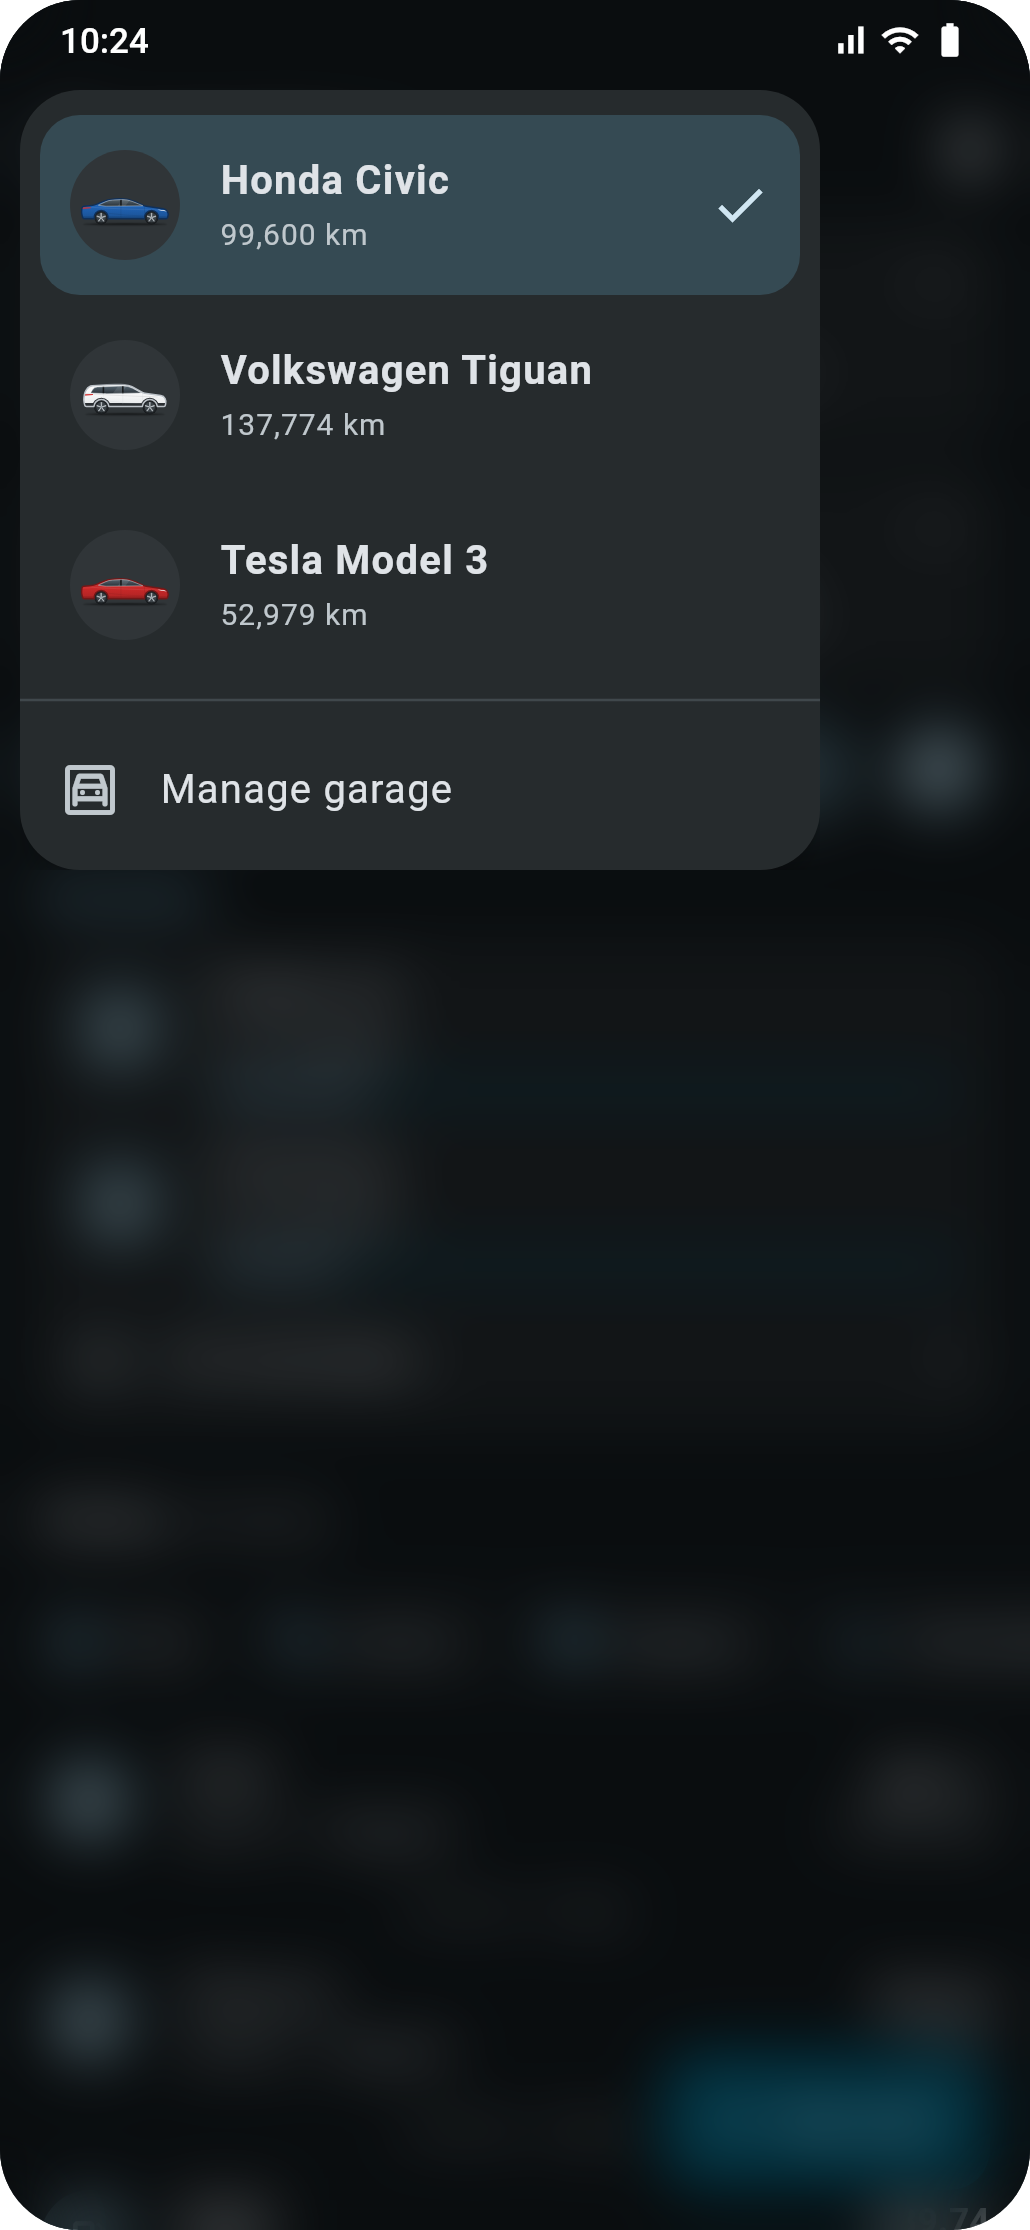
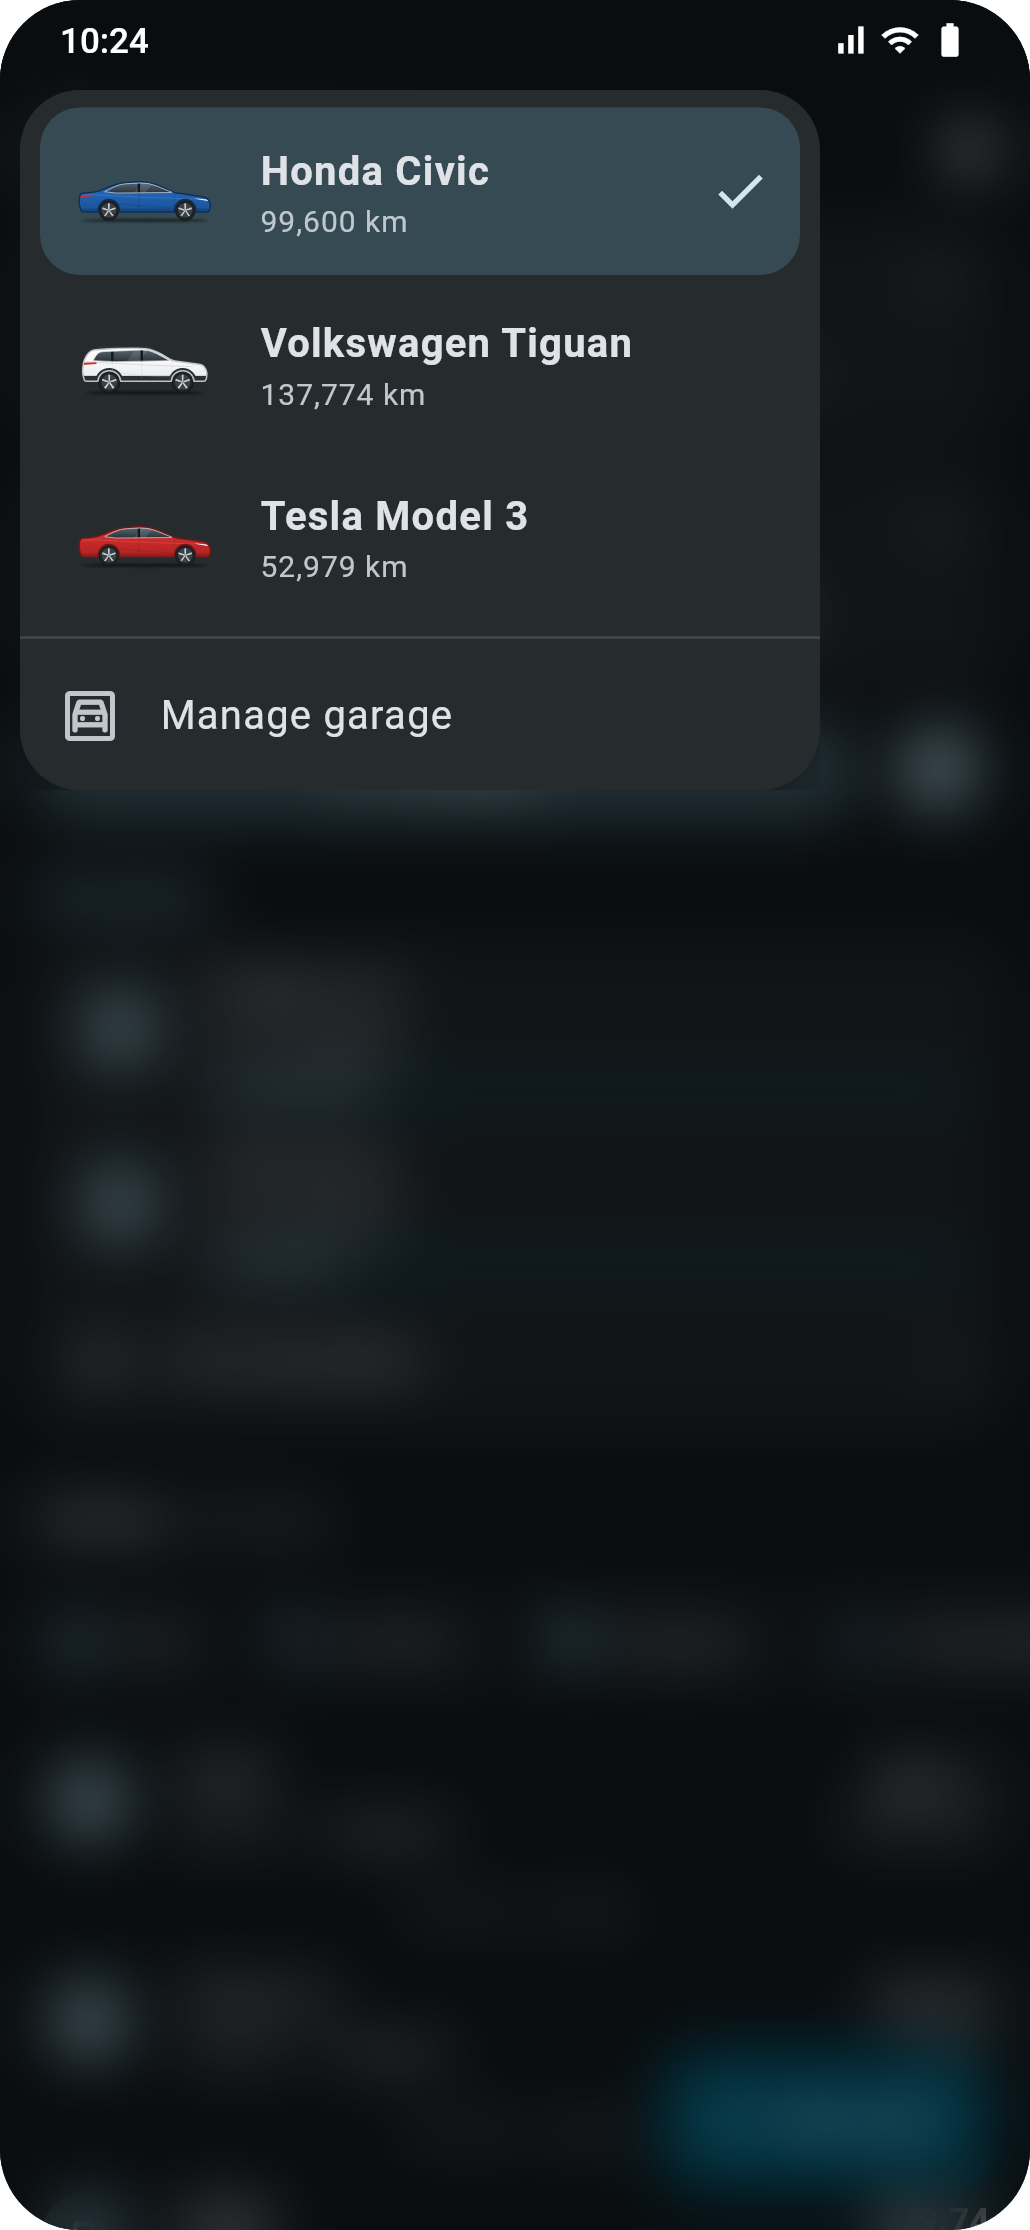
Vehicle menu: tighter rows, larger cars without circles; changelog 3.0.0
Rows are 5 px shorter with less padding around the list and divider, and
the cars are drawn 60 px wide without the avatar circle (VehicleAvatar
circle: false; the initial for a vehicle without a body type keeps its
circle). README screenshot updated.

Claude-Session: https://claude.ai/code/session_01F8422znuTrndrCgUezhEd8

diff --git a/lib/features/vehicles/presentation/vehicle_switcher.dart b/lib/features/vehicles/presentation/vehicle_switcher.dart
@@ -89,11 +89,15 @@ class _VehicleMenu extends ConsumerWidget {
   static const _maxBlur = 12.0;
   static const _dim = .35;
   static const _width = 320.0;
-  static const _listTop = 8.0;
+  static const _listTop = 6.0;
+  static const _carRadius = 30.0;
 
-  // A two-line tile is 72 high, its avatar centre 12 + 22 in from the row's left edge (8 margin).
-  static const _rowCenter = _listTop + 2 + 36;
-  static const _avatarCenter = 8 + 12 + 22.0;
+  /// Rows 5 px shorter than a standard tile (a density step is 4 px).
+  static const _density = VisualDensity(vertical: -1.25);
+
+  // A compact two-line tile is 67 high, its car centred 12 + _carRadius in from the row's left edge (8 margin).
+  static const _rowCenter = _listTop + 1 + 33.5;
+  static const _avatarCenter = 8 + 12 + _carRadius;
 
   @override
   Widget build(BuildContext context, WidgetRef ref) {
@@ -180,12 +184,13 @@ class _VehicleMenu extends ConsumerWidget {
                   const SizedBox(height: _listTop),
                   for (final v in ordered)
                     Padding(
-                      padding: const EdgeInsets.symmetric(horizontal: 8, vertical: 2),
+                      padding: const EdgeInsets.symmetric(horizontal: 8, vertical: 1),
                       child: ListTile(
                         tileColor: v.id == currentId ? cs.secondaryContainer : null,
                         contentPadding: const EdgeInsets.symmetric(horizontal: 12),
                         shape: RoundedRectangleBorder(borderRadius: BorderRadius.circular(16)),
-                        leading: VehicleAvatar(v, radius: 22),
+                        visualDensity: _density,
+                        leading: VehicleAvatar(v, radius: _carRadius, circle: false),
                         title: Text(
                           v.name,
                           maxLines: 1,
@@ -198,8 +203,9 @@ class _VehicleMenu extends ConsumerWidget {
                             v.id == currentId ? Navigator.pop(context) : onNavigate((c) => c.go(Routes.home(v.id))),
                       ),
                     ),
-                  const Divider(height: 16),
+                  const Divider(height: 12),
                   ListTile(
+                    visualDensity: _density,
                     leading: const Icon(Icons.garage_outlined),
                     title: Text(l10n.manageGarage),
                     onTap: () => onNavigate((c) => c.push(Routes.garage)),

diff --git a/lib/core/widgets/widgets.dart b/lib/core/widgets/widgets.dart
@@ -174,29 +174,40 @@ class ValueTile extends StatelessWidget {
 }
 
 class VehicleAvatar extends StatelessWidget {
-  const VehicleAvatar(this.vehicle, {super.key, this.radius = 18});
+  const VehicleAvatar(this.vehicle, {super.key, this.radius = 18, this.circle = true});
 
   final Vehicle vehicle;
   final double radius;
 
+  /// False draws the car alone across the whole width; the initial keeps its circle.
+  final bool circle;
+
   @override
-  Widget build(BuildContext context) =>
-      VehicleBadge(name: vehicle.name, color: vehicle.color, bodyType: vehicle.bodyType, radius: radius);
+  Widget build(BuildContext context) => VehicleBadge(
+      name: vehicle.name, color: vehicle.color, bodyType: vehicle.bodyType, radius: radius, circle: circle);
 }
 
 /// Round vehicle badge: a schematic car in the vehicle's colour, or the name's initial without a body type.
 class VehicleBadge extends StatelessWidget {
-  const VehicleBadge({super.key, required this.name, required this.color, this.bodyType, this.radius = 18});
+  const VehicleBadge(
+      {super.key, required this.name, required this.color, this.bodyType, this.radius = 18, this.circle = true});
 
   final String name;
   final int color;
   final BodyType? bodyType;
   final double radius;
+  final bool circle;
 
   @override
   Widget build(BuildContext context) {
     final theme = Theme.of(context);
     final body = bodyType;
+    if (body != null && !circle) {
+      return SizedBox.square(
+        dimension: radius * 2,
+        child: Center(child: CarDrawing(body: body, color: Color(color), width: radius * 2)),
+      );
+    }
     if (body != null) {
       final background = theme.colorScheme.surfaceContainerHighest;
       return CircleAvatar(

diff --git a/CHANGELOG.md b/CHANGELOG.md
@@ -4,11 +4,11 @@ Each section becomes the notes of the GitHub release with that version
 (`tool/changelog.sh <version>`; see docs/RELEASING.md). Newest first; rename *Unreleased* to the
 version when releasing.
 
-## Unreleased
+## 3.0.0
 
 - Phone vehicle selector: instead of a bottom sheet, a menu unfolds over the switcher with the current
   vehicle first, while the page behind blurs and dims. Each vehicle shows its odometer and how many
-  reminders are overdue or due soon.
+  reminders are overdue or due soon, with a larger car drawing.
 - Settings: the *Data* section comes first, and every item that opens another page shows a chevron.
 - Garage: the quick backup button is gone from the app bar (backups live in *Settings → Backup & restore*).
 
